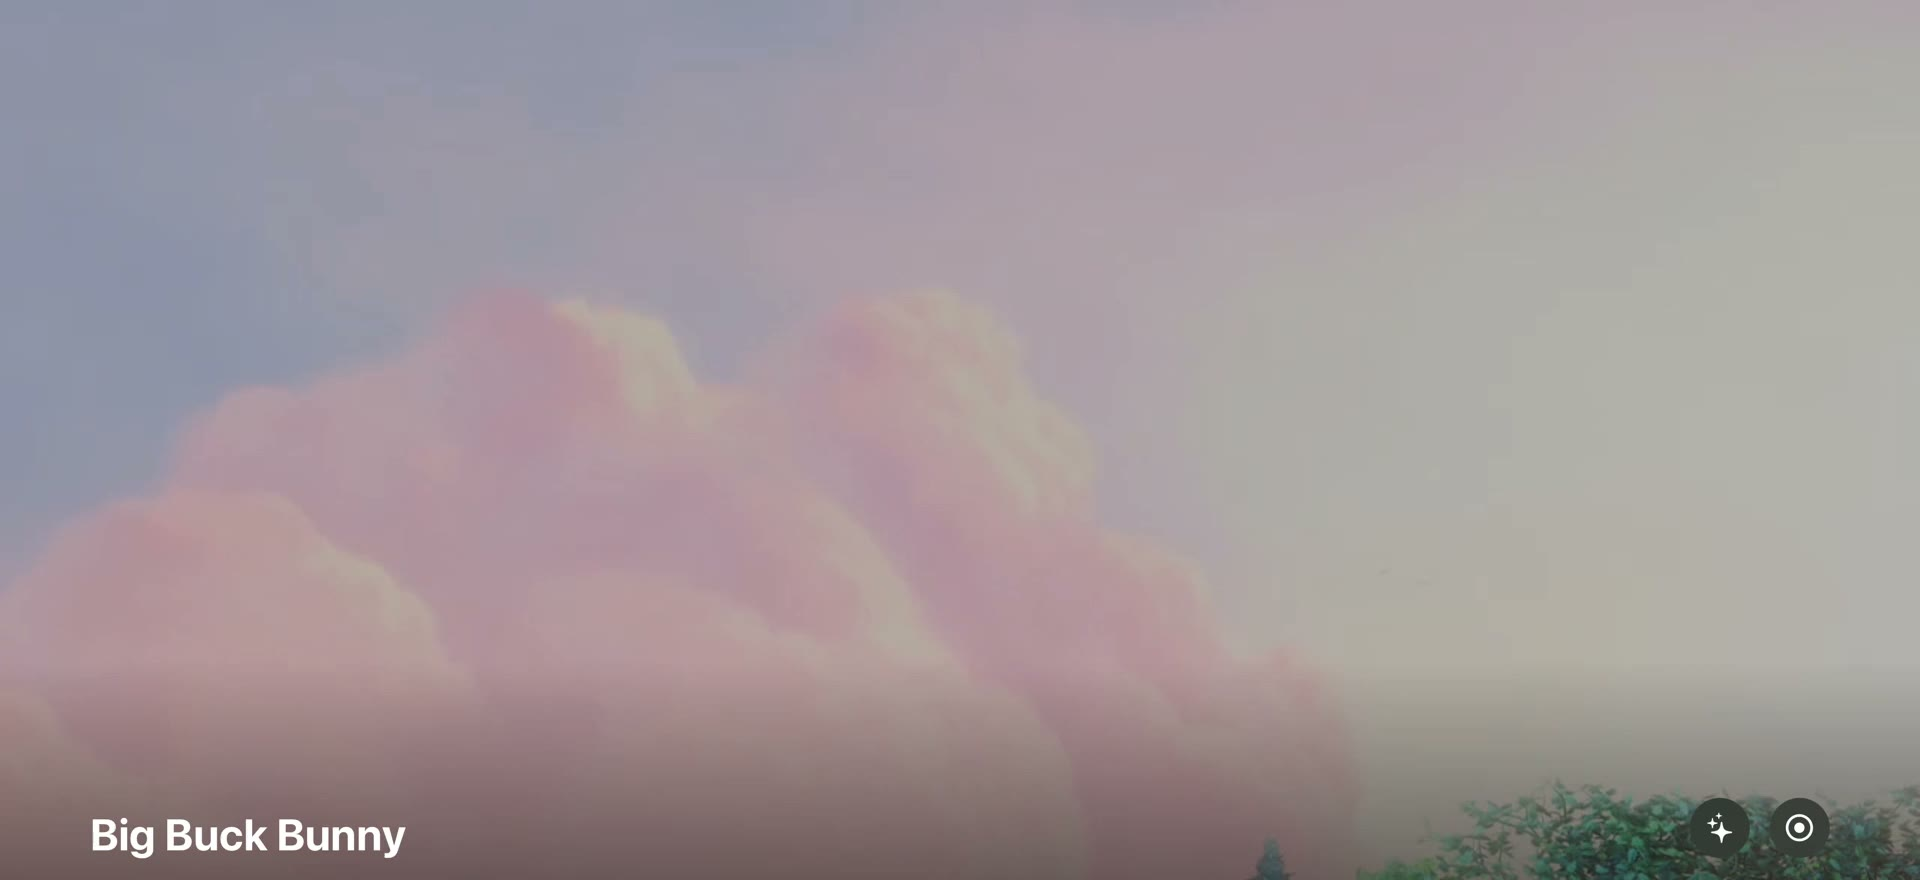
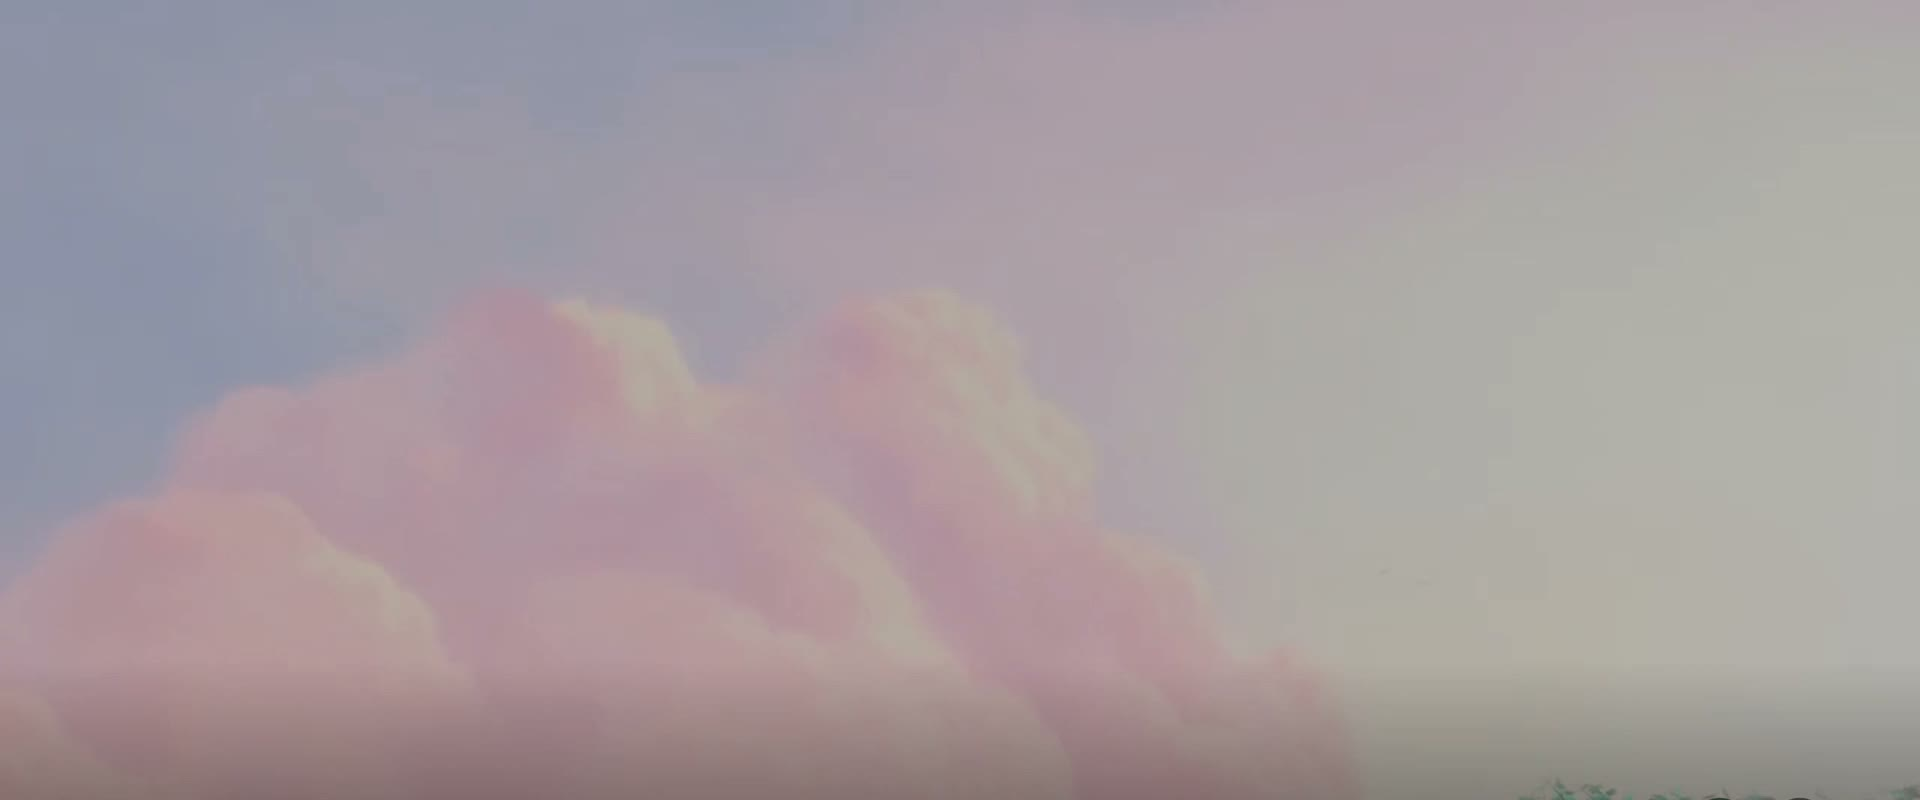
Hero clip re-cropped above the Apple TV player overlay (1920x800)

Changed region(s): [[0.0, 0.7812, 1.0, 1.0], [0.0938, 0.4375, 0.1875, 0.5312], [0.0312, 0.5625, 0.0938, 0.625]]

diff --git a/index.html b/index.html
@@ -32,7 +32,7 @@
 
 <main>
 <header class="hero" id="top">
-  <div class="bg vid" data-src="assets/video/hero-tv.mp4"><img src="assets/video/hero-tv.jpg" alt="" width="1920" height="880"><video muted loop playsinline preload="none"></video></div>
+  <div class="bg vid" data-src="assets/video/hero-tv.mp4"><img src="assets/video/hero-tv.jpg" alt="" width="1920" height="800"><video muted loop playsinline preload="none"></video></div>
   <div class="veil"></div>
   <div class="wrap">
     <div class="eyebrow">iPhone · iPad · Mac · Apple TV</div>
